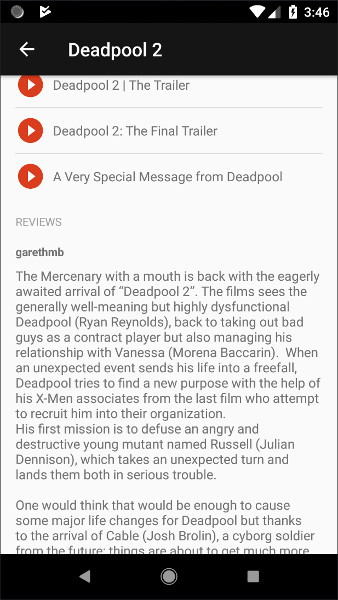
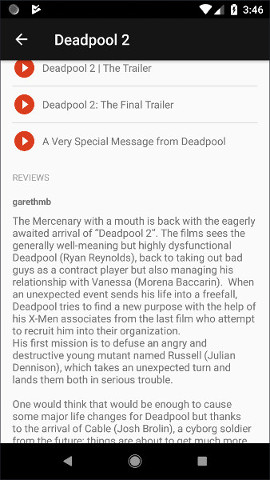
Readme: Changed images sizes

diff --git a/README.md b/README.md
@@ -6,8 +6,11 @@ https://www.themoviedb.org API as a source of content.
 
 Used in **Android Developer Nanodegree** program.
 
-<img src="images/screenshot_01.jpg" alt="Scrollable list of movies" width="338" height="600"> <img src="images/screenshot_03.jpg" alt="Movie details" width="338" height="600"> <img src="images/screenshot_04.jpg" alt="Reviews" width="338" height="600">
-<img src="images/screenshot_05.jpg" alt="Scrollable list of movies" width="600" height="338"> <img src="images/screenshot_06.jpg" alt="Movie details" width="600" height="338">
+![](images/screenshot_01.jpg "Scrollable list of movies")
+![](images/screenshot_03.jpg "Movie details")
+![](images/screenshot_04.jpg "Reviews")
+![](images/screenshot_05.jpg "Scrollable list of movies")
+![](images/screenshot_06.jpg "Movie details")
 
 ## Dependencies
 
